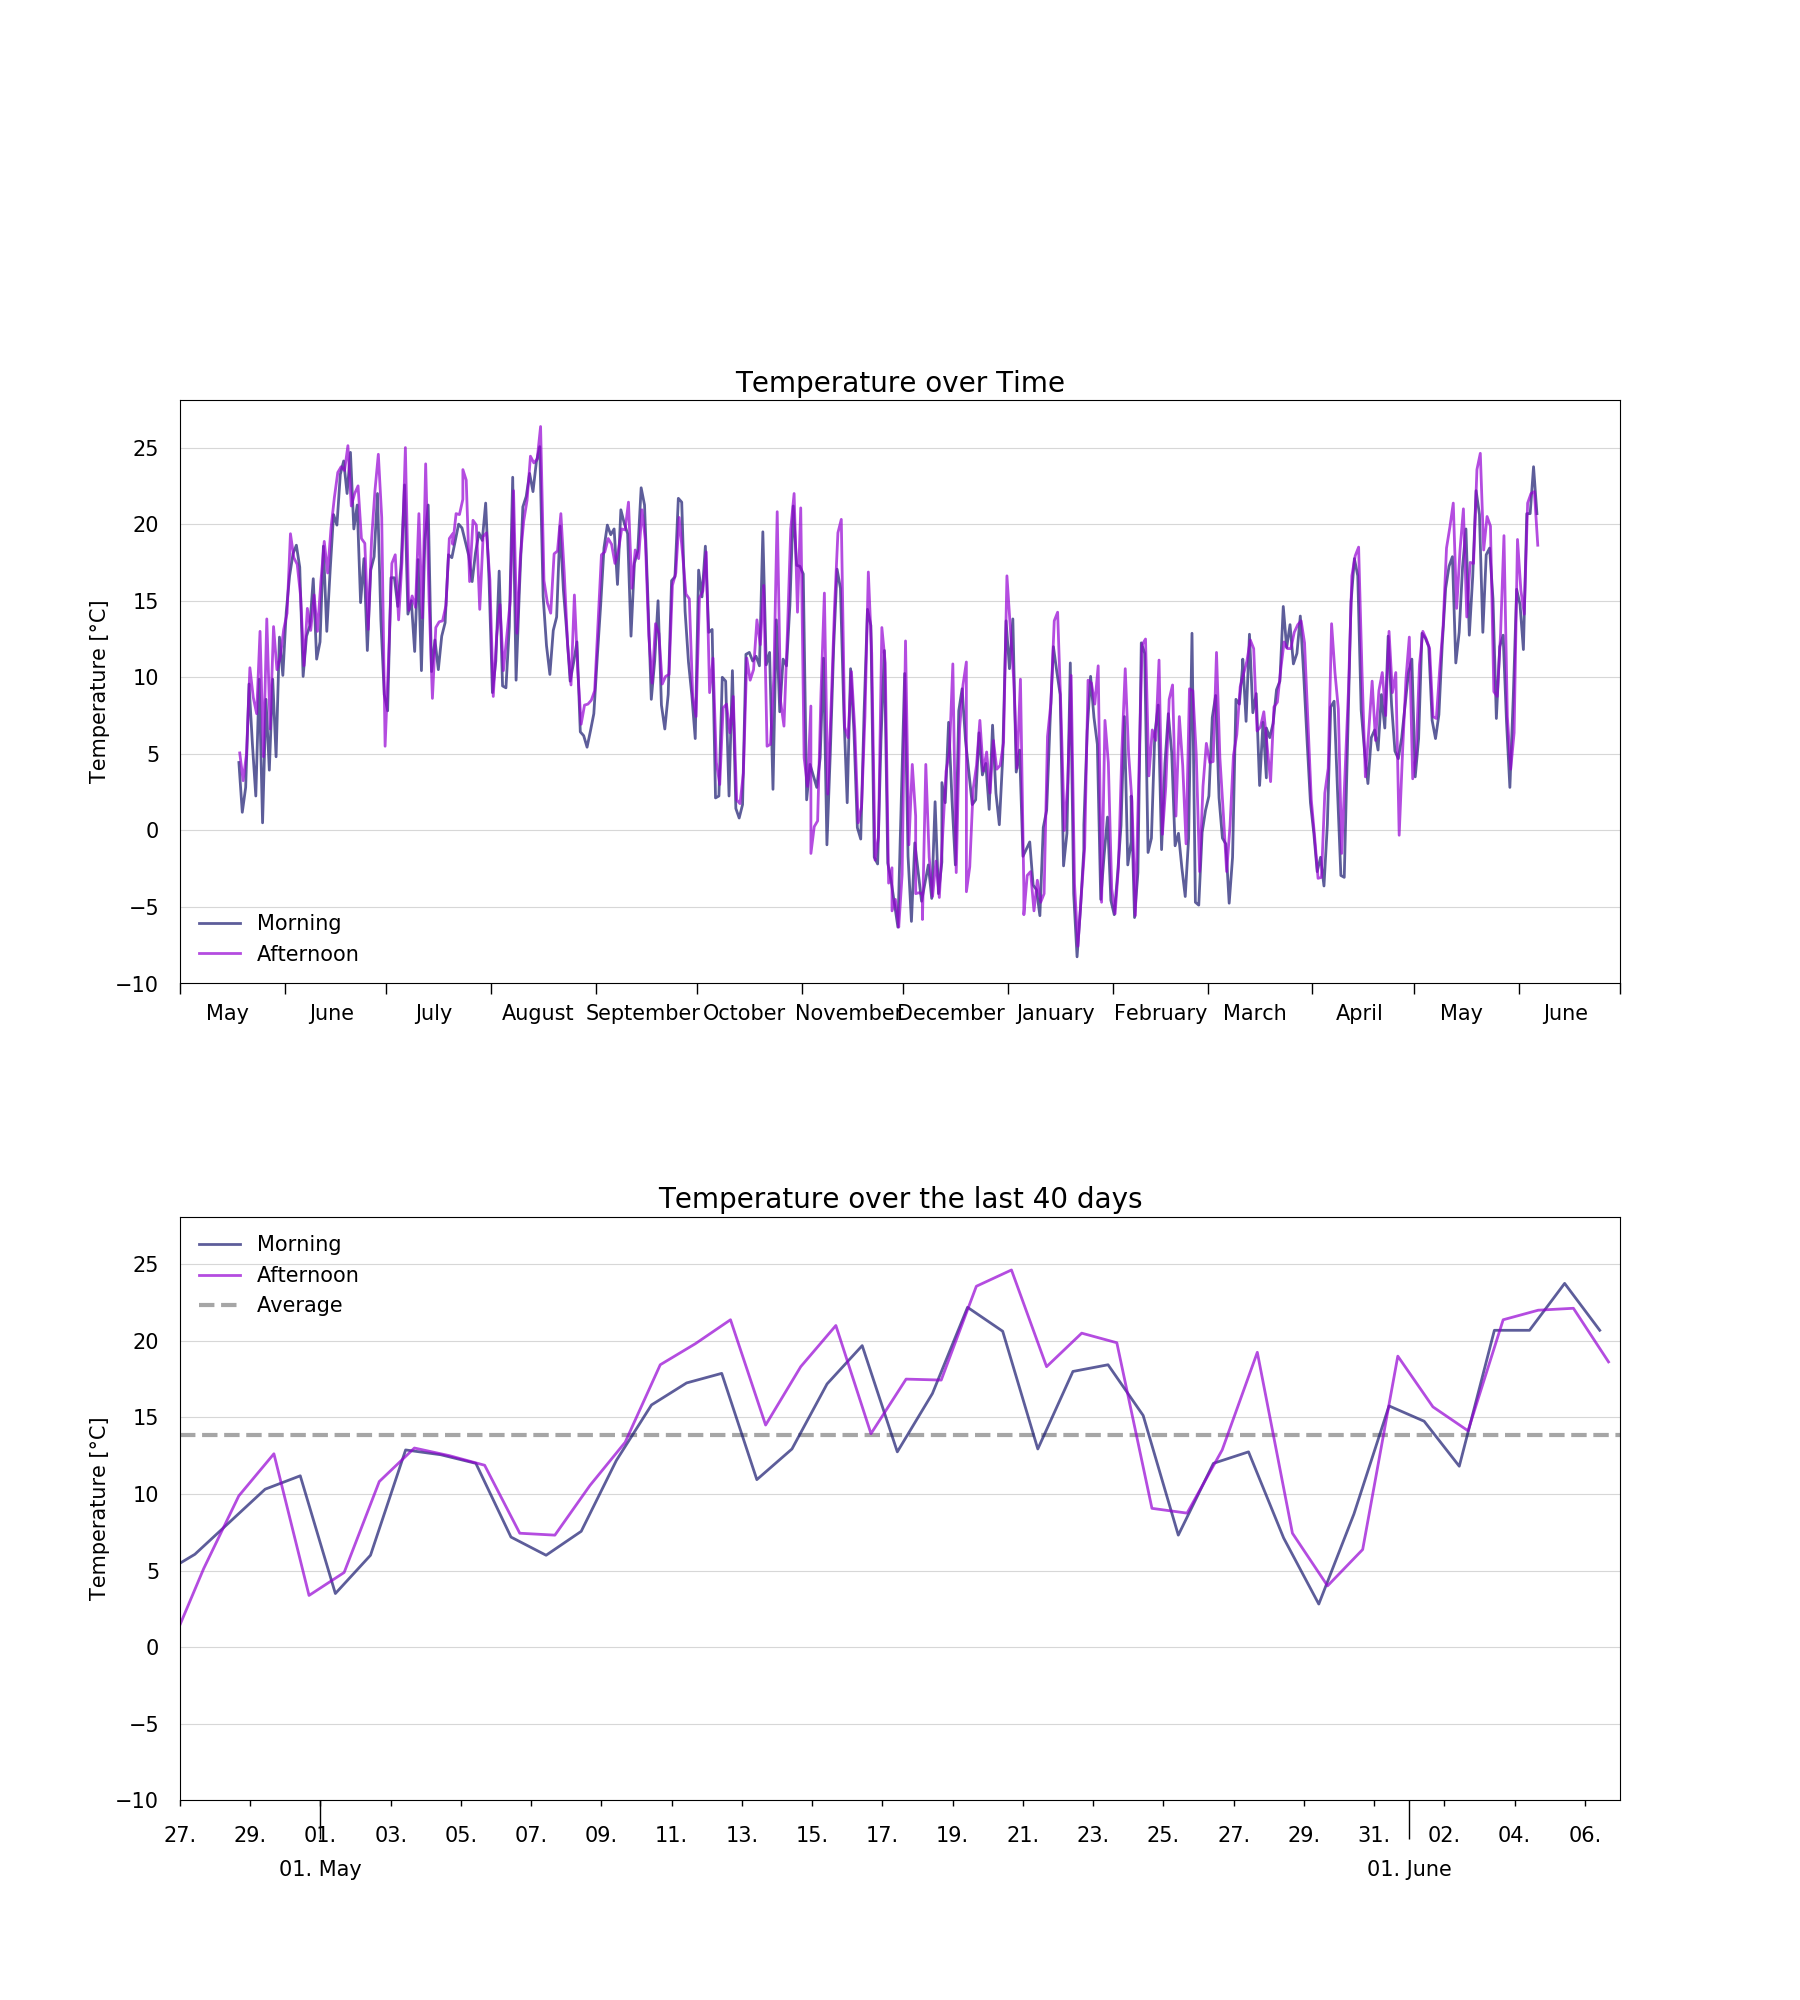
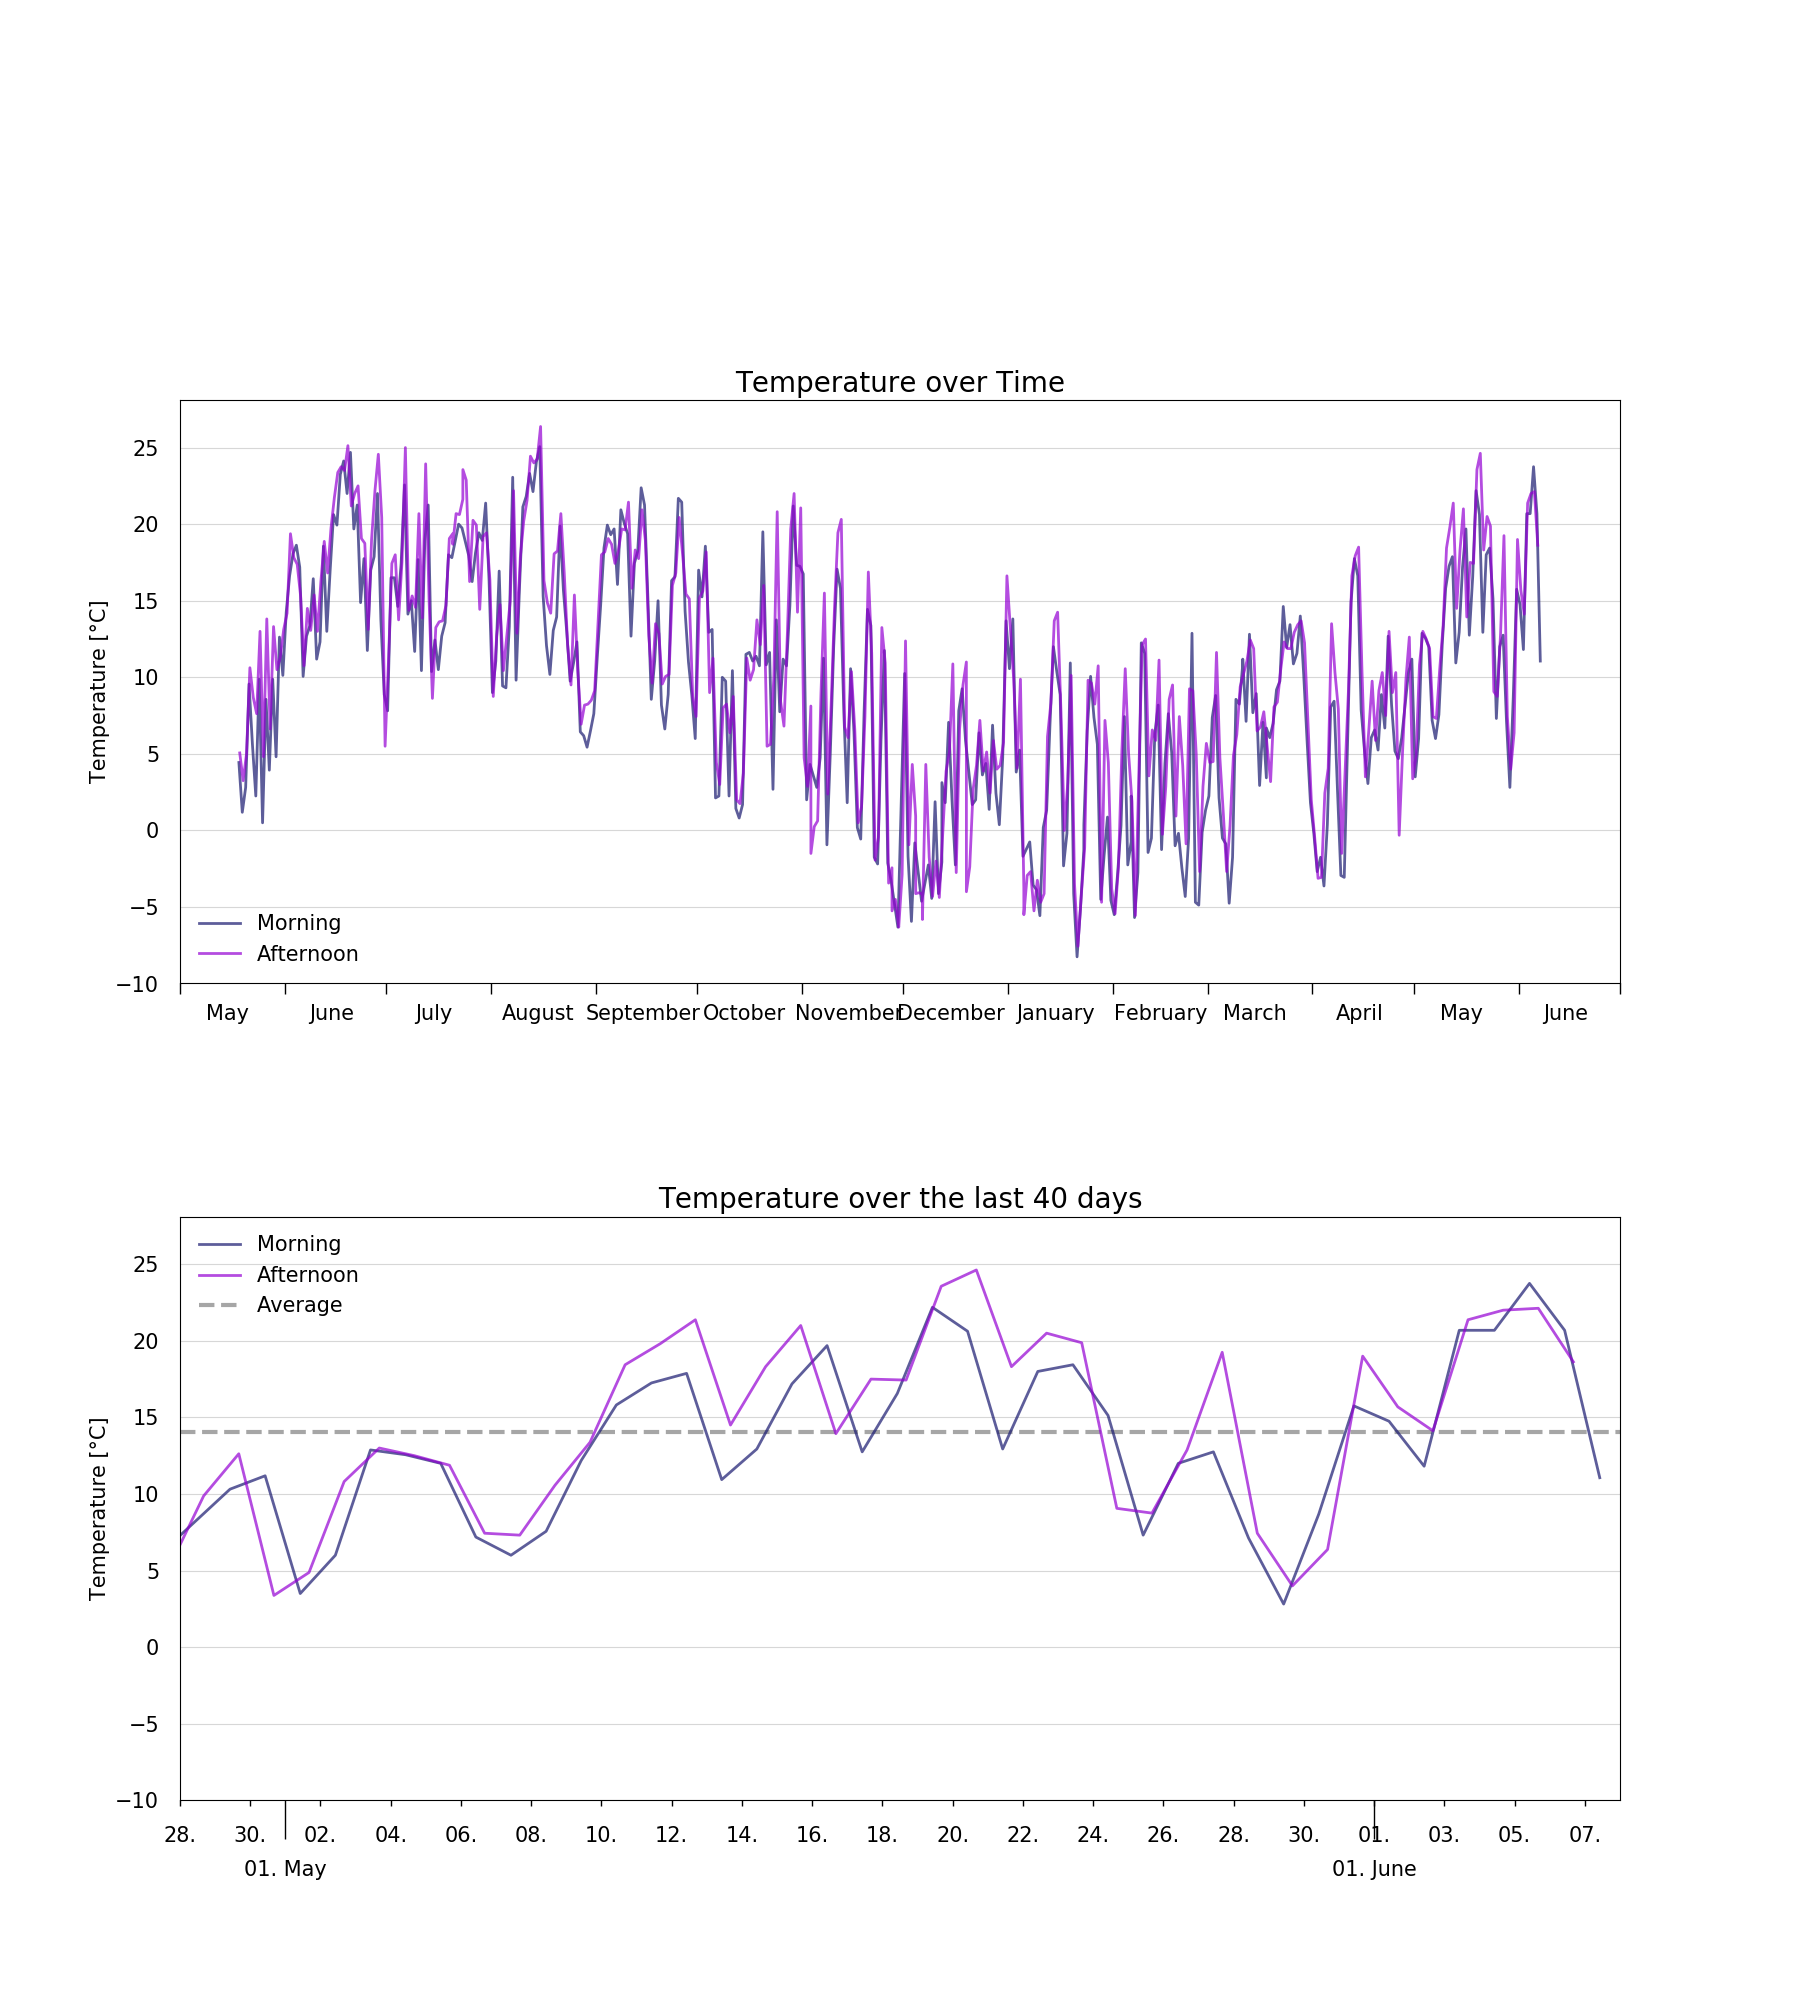
I'm a bot beep boop

diff --git a/resources/huette.md b/resources/huette.md
@@ -6,13 +6,13 @@ image: '/assets/img/'
 description: 'Live image from the Austrian alps'
 twitter_text: ' '
 ---
-## Latest image from 06 June 2022 at 16:10
+## Latest image from 07 June 2022 at 10:10
 <div class="huette">
   <div class="huette-image">
     <img src="{{ "/assets/img/huette.jpg" | prepend: site.baseurl }}">
   </div>
   <div class="huette-text">
-        <h2>Current Temperature: 18.625°C</h2>
+        <h2>Current Temperature: 11.062°C</h2>
         <p>A solar powered raspberry pi left alone in the wild is sending daily images and temperature data to this website. It should give you an impression about the current weather in the "Brixental".</p>
 
   </div>

diff --git a/rpi-script/huette.md b/rpi-script/huette.md
@@ -6,13 +6,13 @@ image: '/assets/img/'
 description: 'Live image from the Austrian alps'
 twitter_text: ' '
 ---
-## Latest image from 06 June 2022 at 16:10
+## Latest image from 07 June 2022 at 10:10
 <div class="huette">
   <div class="huette-image">
     <img src="{{ "/assets/img/huette.jpg" | prepend: site.baseurl }}">
   </div>
   <div class="huette-text">
-        <h2>Current Temperature: 18.625°C</h2>
+        <h2>Current Temperature: 11.062°C</h2>
         <p>A solar powered raspberry pi left alone in the wild is sending daily images and temperature data to this website. It should give you an impression about the current weather in the "Brixental".</p>
 
   </div>
